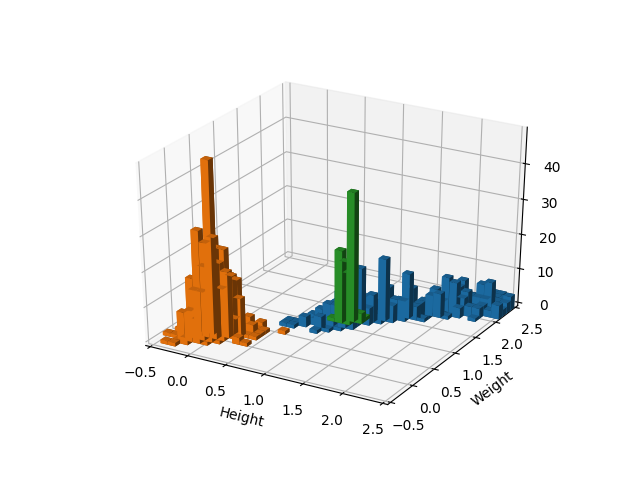
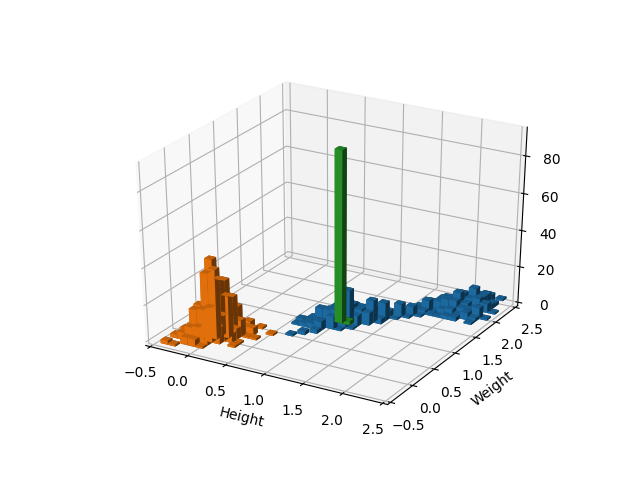
updated figures

diff --git a/problem2.py b/problem2.py
@@ -19,9 +19,9 @@ if __name__ == '__main__':
     ndims = 2
     np.random.seed(0)
     tf.random.set_seed(0)
-    mmr_pred_y = run_mmr_experiment(make_batch, ndims)
-    gmm_clsfy_y = run_gmm_clsfy_experiment(make_batch, ndims, n_gauss=4)
-    nf_y = run_nf_experiment(make_batch, ndims)
+    # mmr_pred_y = run_mmr_experiment(make_batch, ndims)
+    # gmm_clsfy_y = run_gmm_clsfy_experiment(make_batch, ndims, n_gauss=4)
+    nf_y = run_nf_experiment(make_batch, ndims, train_steps=10000)
     
     x, y, z = make_batch(ndims, batch_size=1000)   
     fig = plt.figure()
@@ -30,17 +30,17 @@ if __name__ == '__main__':
     plot3d(ax, y[z==0, 0], y[z==0, 1], vis_bins=31)
     plot3d(ax, y[z==2, 0], y[z==2, 1], vis_bins=31)
     
-    fig = plt.figure()
-    ax = fig.add_subplot(111, projection='3d')
-    plot3d(ax, *mmr_pred_y[1][:2], vis_bins=31)
-    plot3d(ax, *mmr_pred_y[0][:2], vis_bins=31)
-    plot3d(ax, *mmr_pred_y[2][:2], vis_bins=31)
+    # fig = plt.figure()
+    # ax = fig.add_subplot(111, projection='3d')
+    # plot3d(ax, *mmr_pred_y[1][:2], vis_bins=31)
+    # plot3d(ax, *mmr_pred_y[0][:2], vis_bins=31)
+    # plot3d(ax, *mmr_pred_y[2][:2], vis_bins=31)
     
-    fig = plt.figure()
-    ax = fig.add_subplot(111, projection='3d')
-    plot3d(ax, *gmm_clsfy_y[1][:2], vis_bins=31)
-    plot3d(ax, *gmm_clsfy_y[0][:2], vis_bins=31)
-    plot3d(ax, *gmm_clsfy_y[2][:2], vis_bins=31)
+    # fig = plt.figure()
+    # ax = fig.add_subplot(111, projection='3d')
+    # plot3d(ax, *gmm_clsfy_y[1][:2], vis_bins=31)
+    # plot3d(ax, *gmm_clsfy_y[0][:2], vis_bins=31)
+    # plot3d(ax, *gmm_clsfy_y[2][:2], vis_bins=31)
     
     fig = plt.figure()
     ax = fig.add_subplot(111, projection='3d')

diff --git a/nd.py b/nd.py
@@ -494,7 +494,7 @@ if __name__ == '__main__':
     mb_pred_y_ind = run_mb_ind_experiment(make_batch, ndims)
     mb_pred_y_joint = run_mb_joint_experiment(make_batch, ndims)
     gmm_clsfy_y = run_gmm_clsfy_experiment(make_batch, ndims)
-    nf_y = run_nf_experiment(make_batch, ndims)
+    nf_y = run_nf_experiment(make_batch, ndims, train_steps=10000)
 
     x, y, z = make_batch(ndims, batch_size=1000)   
     fig = plt.figure()

diff --git a/README.md b/README.md
@@ -1,4 +1,14 @@
 # multi-mod-reg
 Loss functions for regressing against multi-modal ground truths.
 
+Note: some of the experiments were written in tensorflow1.14, and some in tensorflow2.2, but I lumped them all into one file, so the code definitely cannot be run in one go. Apologies! If you want to run the 2.2 ones, then you'll have to comment out the 1.14 ones, and vice versa.
+
+run_l2_experiment(): 1.14
+run_mmr_experiment(): 1.14
+run_mb_ind_experiment(): 1.14
+run_mb_joint_experiment(): 1.14
+run_gmm_clsfy_experiment(): 1.14
+run_nf_experiment(): 2.2
+
 [Blogpost describing this](https://jkvt2.github.io/deeplearning/2020/06/25/multi-mod-reg.html)
+[Followup post on normalising flows](https://jkvt2.github.io/deeplearning/2020/07/06/norm-flows.html)
